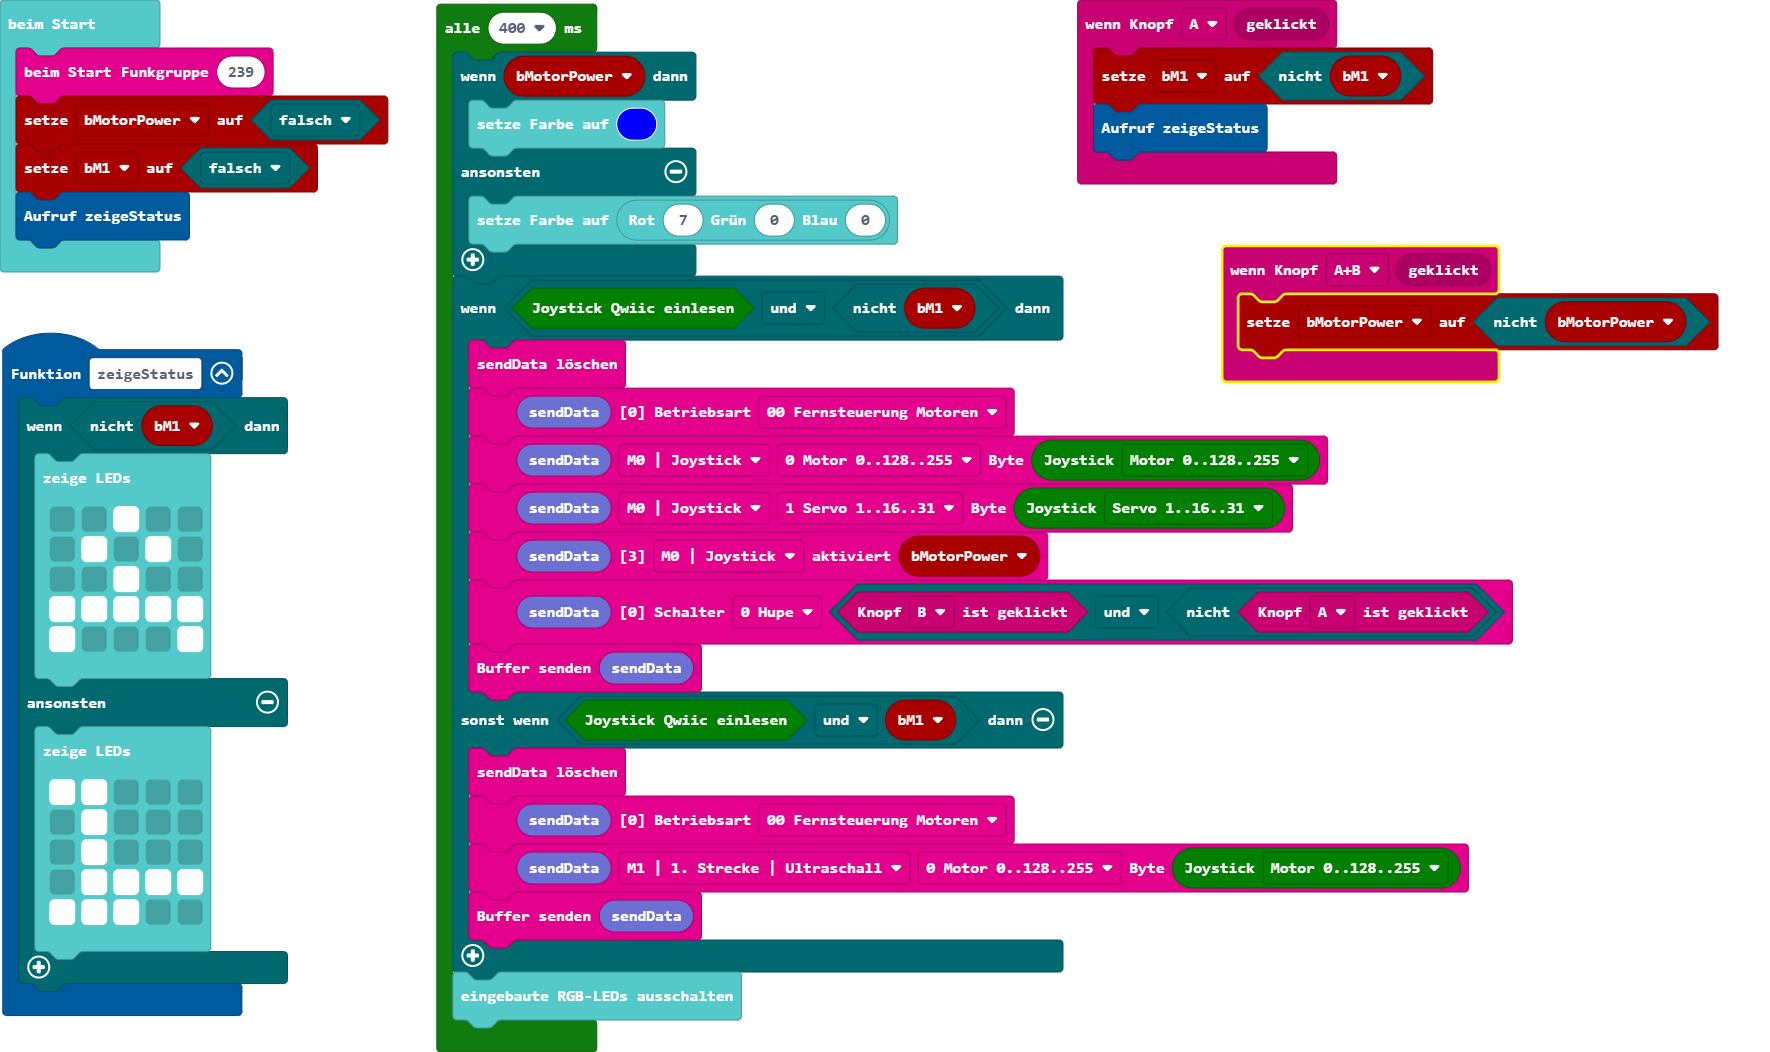
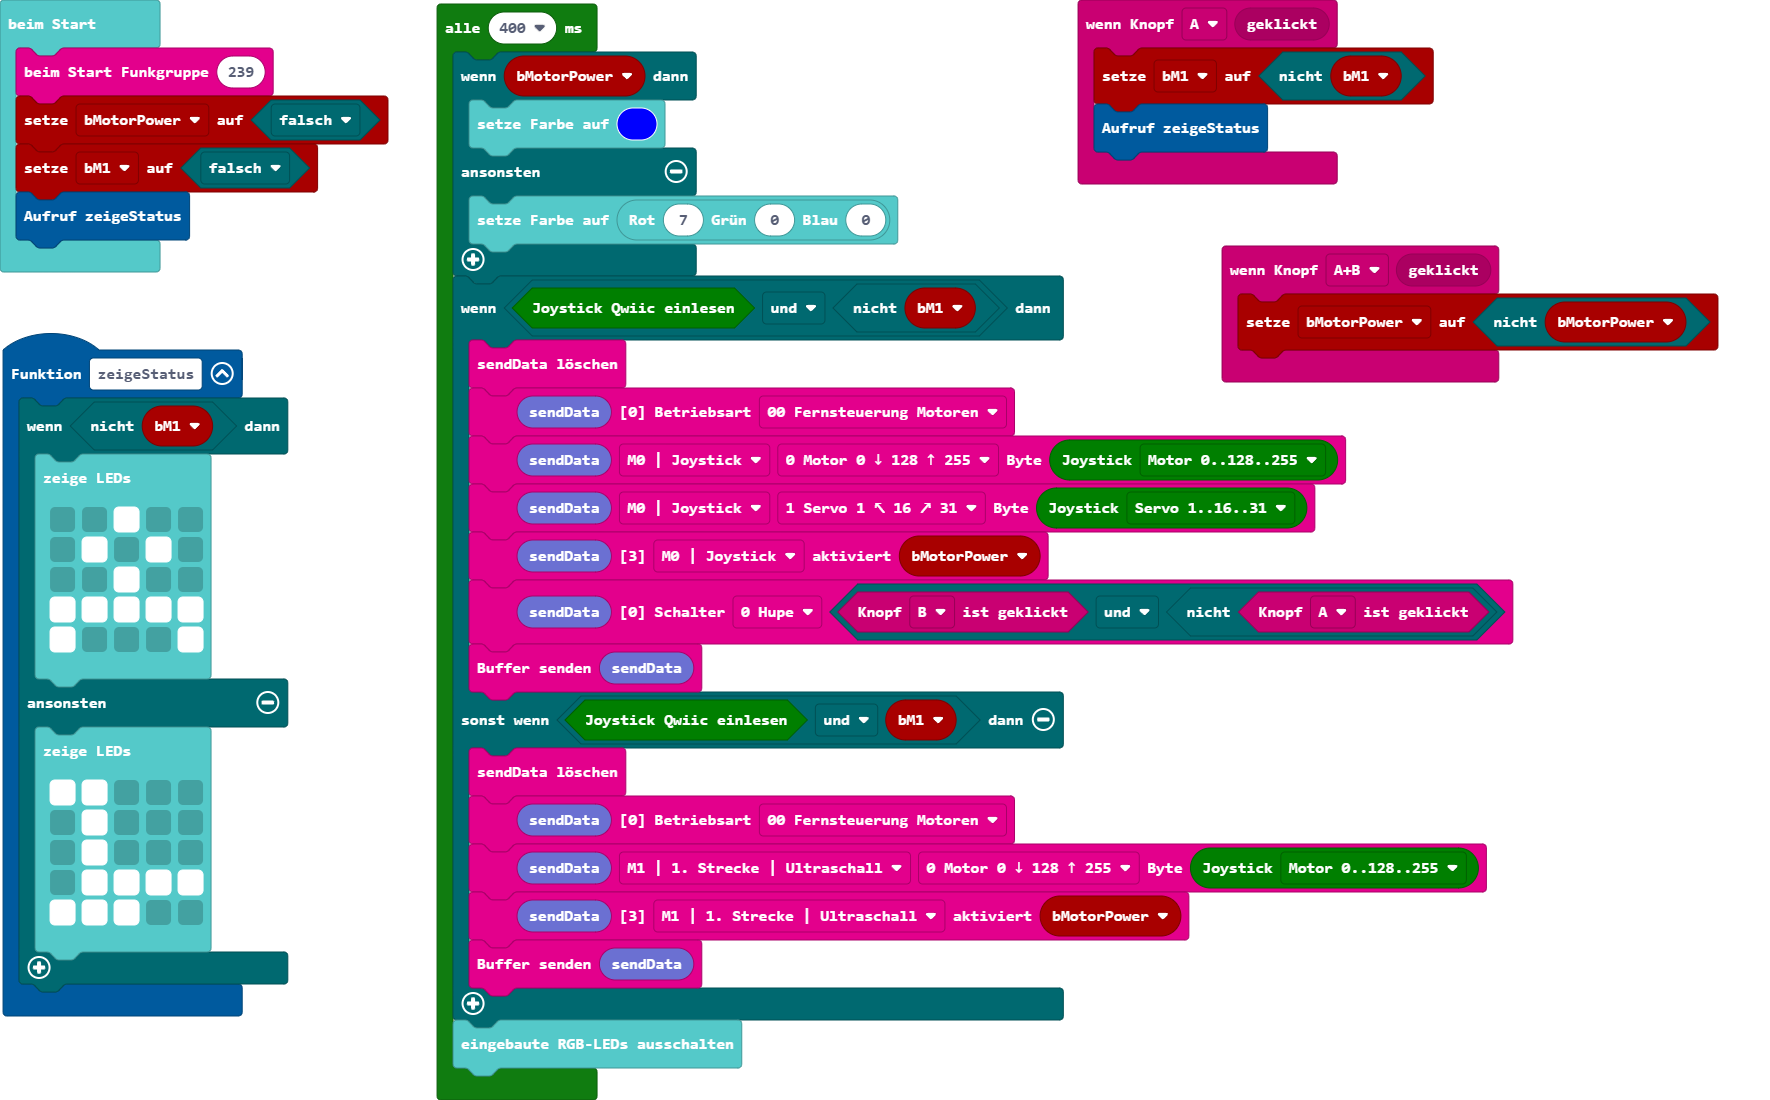
Aktualisiere pxt.json, main.blocks, main.ts, joystick.ts

diff --git a/joystick.ts b/joystick.ts
@@ -20,7 +20,7 @@ namespace radiosender
         x,
         //% block="y 0..128..255"
         y,
-        //% block="Motor 0..128..255"
+        //% block="Motor 1..128..255"
         motor,
         //% block="Servo 45°..90°..135°"
         servo90,
@@ -41,6 +41,8 @@ namespace radiosender
             // Motor
             if (radio.between(n_x, 124, 132))
                 n_xMotor = 128
+            else if (n_x == 0)
+                n_xMotor = 1
             else
                 n_xMotor = n_x
             // Servo
@@ -60,7 +62,7 @@ namespace radiosender
                         else n_yServo = Math.map(n_y, 20, 235, 134, 46) // Werte von 32 bis 991 auf 46° bis 134° verteilen
                         n_yServo = Math.round(n_yServo)
                         //n_yservo = Math.round(n_yservo / 3 - 14) // 0=31 90=16 135=1
-             */
+            */
             return true
         }
     }

diff --git a/main.ts b/main.ts
@@ -48,6 +48,7 @@ loops.everyInterval(400, function () {
         radio.fill_sendBuffer19()
         radio.setBetriebsart(radio.radio_sendBuffer19(), radio.e0Betriebsart.p0)
         radio.setByte(radio.radio_sendBuffer19(), radio.eBufferPointer.p1, radio.eBufferOffset.b0_Motor, radiosender.joystickValues(radiosender.eJoystickValue.motor))
+        radio.setaktiviert(radio.radio_sendBuffer19(), radio.e3aktiviert.m1, bMotorPower)
         radio.sendData(radio.radio_sendBuffer19())
     }
     basic.turnRgbLedOff()
